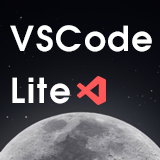
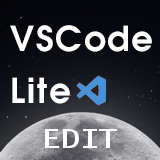
update 1.0.4

Changed region(s): [[0.2812, 0.7812, 0.7188, 0.9375], [0.4688, 0.4688, 0.6875, 0.6562]]

diff --git a/changelog.md b/changelog.md
@@ -2,6 +2,9 @@
 
 > If needs translations, please use browser translator first. Too much to write in the changelogs.
 
+- V1.0.4
+  - 更新预览图
+  - Update preview image
 - V1.0.3
   - 修改了标题样式（好麻烦）
   - Adjust title style
